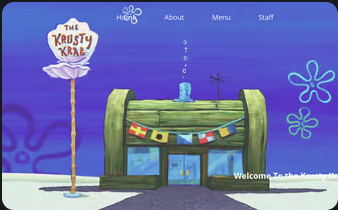
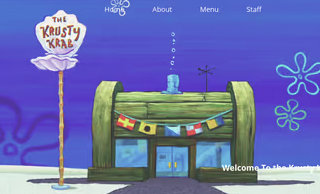
add tablet and mobile versions

diff --git a/software-engineer-portfolio/src/pages/HomePage/styles.css b/software-engineer-portfolio/src/pages/HomePage/styles.css
@@ -40,7 +40,7 @@
 .home_page_about p {
   width: 300px;
   color: #acacac;
-  margin-bottom: 50px;
+  margin: 0 0 50px;
 }
 
 .home_page_about_img {
@@ -114,6 +114,7 @@
 .home_page_projects_content img {
   width: 450px;
   height: 300px;
+  border-radius: 32px;
 }
 
 .home_page_projects_content h4 {
@@ -162,3 +163,102 @@
 }
 
 /* @media tablet 1230px */
+@media (max-width: 1230px) {
+  .home_page_projects_content {
+    width: 300px;
+    margin: 0 20px 40px;
+  }
+  .home_page_projects_content img {
+    width: 300px;
+    height: 250px;
+  }
+}
+
+/* @media tablet 1137px */
+@media (max-width: 1137px) {
+  .home_page_about {
+    justify-content: center;
+    flex-flow: column-reverse;
+    text-align: center;
+  }
+
+  .home_page_about p {
+    margin: 0 auto 50px;
+  }
+}
+
+/* @media mobile 930px */
+@media (max-width: 930px) {
+  .home_page_projects_container {
+    display: flex;
+    flex-direction: column;
+    flex-wrap: wrap;
+    justify-content: center;
+    width: fit-content;
+    margin: 0 auto;
+  }
+
+  .home_page_skills_container {
+    grid-template-columns: repeat(2, 1fr);
+    grid-template-rows: repeat(3, 1fr);
+    grid-column-gap: 100px;
+    grid-row-gap: 40px;
+  }
+}
+
+/* @media mobile 815px */
+@media (max-width: 815px) {
+  .home_page_contacts {
+    justify-content: center;
+    align-items: center;
+    flex-direction: column;
+    width: fit-content;
+    margin: 0 auto;
+    text-align: center;
+  }
+}
+
+/* @media mobile 630px */
+@media (max-width: 630px) {
+  .home_page_skills_container {
+    grid-row-gap: 0;
+    display: flex;
+    flex-direction: column;
+    width: fit-content;
+    margin: 0 auto;
+    text-align: center;
+  }
+}
+
+/* @media mobile 590px */
+@media (max-width: 590px) {
+  .home_page_container {
+    padding: 20px 30px;
+  }
+
+  .home_page_nav {
+    flex-direction: column;
+  }
+
+  .home_page_about_img img {
+    max-width: 280px;
+    height: 280px;
+  }
+
+  .home_page_projects_content {
+    width: 250px;
+  }
+
+  .home_page_projects_content img {
+    width: 250px;
+    height: 250px;
+  }
+
+  .home_page_footer_container {
+    padding: 20px 30px;
+  }
+
+  .home_page_footer {
+    flex-direction: column;
+  }
+}

diff --git a/software-engineer-portfolio/src/pages/HomePage/projectsdata.js b/software-engineer-portfolio/src/pages/HomePage/projectsdata.js
@@ -1,5 +1,5 @@
 import surveyPic from "./images/socialmediasurvey.png";
-// import AandLPic from './images/.png';
+import AandLPic from "./images/adviceandlaugh.png";
 import resturantPic from "./images/krustykrabui.png";
 import dataPic from "./images/krustykrabbackend.png";
 
@@ -8,29 +8,29 @@ const projectsData = [
     image: surveyPic,
     name: "Social Media Survey",
     skills: "React CSS JavaScript",
-    uipage: "#contact",
-    code: "#contact",
+    uipage: "https://socialmediasurvey.netlify.app/",
+    code: "https://github.com/ConstanceNwaigwe/new-social-media-survey",
   },
   {
-    image: surveyPic,
+    image: AandLPic,
     name: "Advice and Laugh",
     skills: "React CSS JavaScript",
-    uipage: "#contact",
-    code: "#contact",
+    uipage: "https://github.com/ConstanceNwaigwe/advice-and-laugh",
+    code: "https://github.com/ConstanceNwaigwe/advice-and-laugh",
   },
   {
     image: resturantPic,
     name: "Krusty Krab Resturant",
     skills: "React CSS JavaScript",
-    uipage: "#contact",
-    code: "#contact",
+    uipage: "https://krustykrabresturant.netlify.app/",
+    code: "https://github.com/Constance-Nwaigwe/spongebob-UI",
   },
   {
     image: dataPic,
     name: "Krusty Krab Backend data",
     skills: "Node Sequelize Express",
-    uipage: "#contact",
-    code: "#contact",
+    uipage: "https://github.com/Constance-Nwaigwe/Spongebob-Recipes",
+    code: "https://github.com/Constance-Nwaigwe/Spongebob-Recipes",
   },
 ];
 

diff --git a/software-engineer-portfolio/src/pages/HomePage/index.js b/software-engineer-portfolio/src/pages/HomePage/index.js
@@ -57,7 +57,12 @@ function HomePage() {
         <div className="home_page_projects">
           <div className="home_page_projects_title">
             <h3>Projects</h3>
-            <a className="home_page_contact" href="#contact">
+            <a
+              className="home_page_contact"
+              href="https://github.com/ConstanceNwaigwe?tab=repositories"
+              target="_blank"
+              rel="noreferrer"
+            >
               VIEW ALL
             </a>
           </div>
@@ -69,10 +74,20 @@ function HomePage() {
                   <h4>{data.name}</h4>
                   <p>{data.skills}</p>
                   <div className="home_page_projects_view">
-                    <a className="home_page_contact" href={data.uipage}>
+                    <a
+                      className="home_page_contact"
+                      href={data.uipage}
+                      target="_blank"
+                      rel="noreferrer"
+                    >
                       VIEW PROJECT
                     </a>
-                    <a className="home_page_contact" href={data.code}>
+                    <a
+                      className="home_page_contact"
+                      href={data.code}
+                      target="_blank"
+                      rel="noreferrer"
+                    >
                       VIEW CODE
                     </a>
                   </div>
